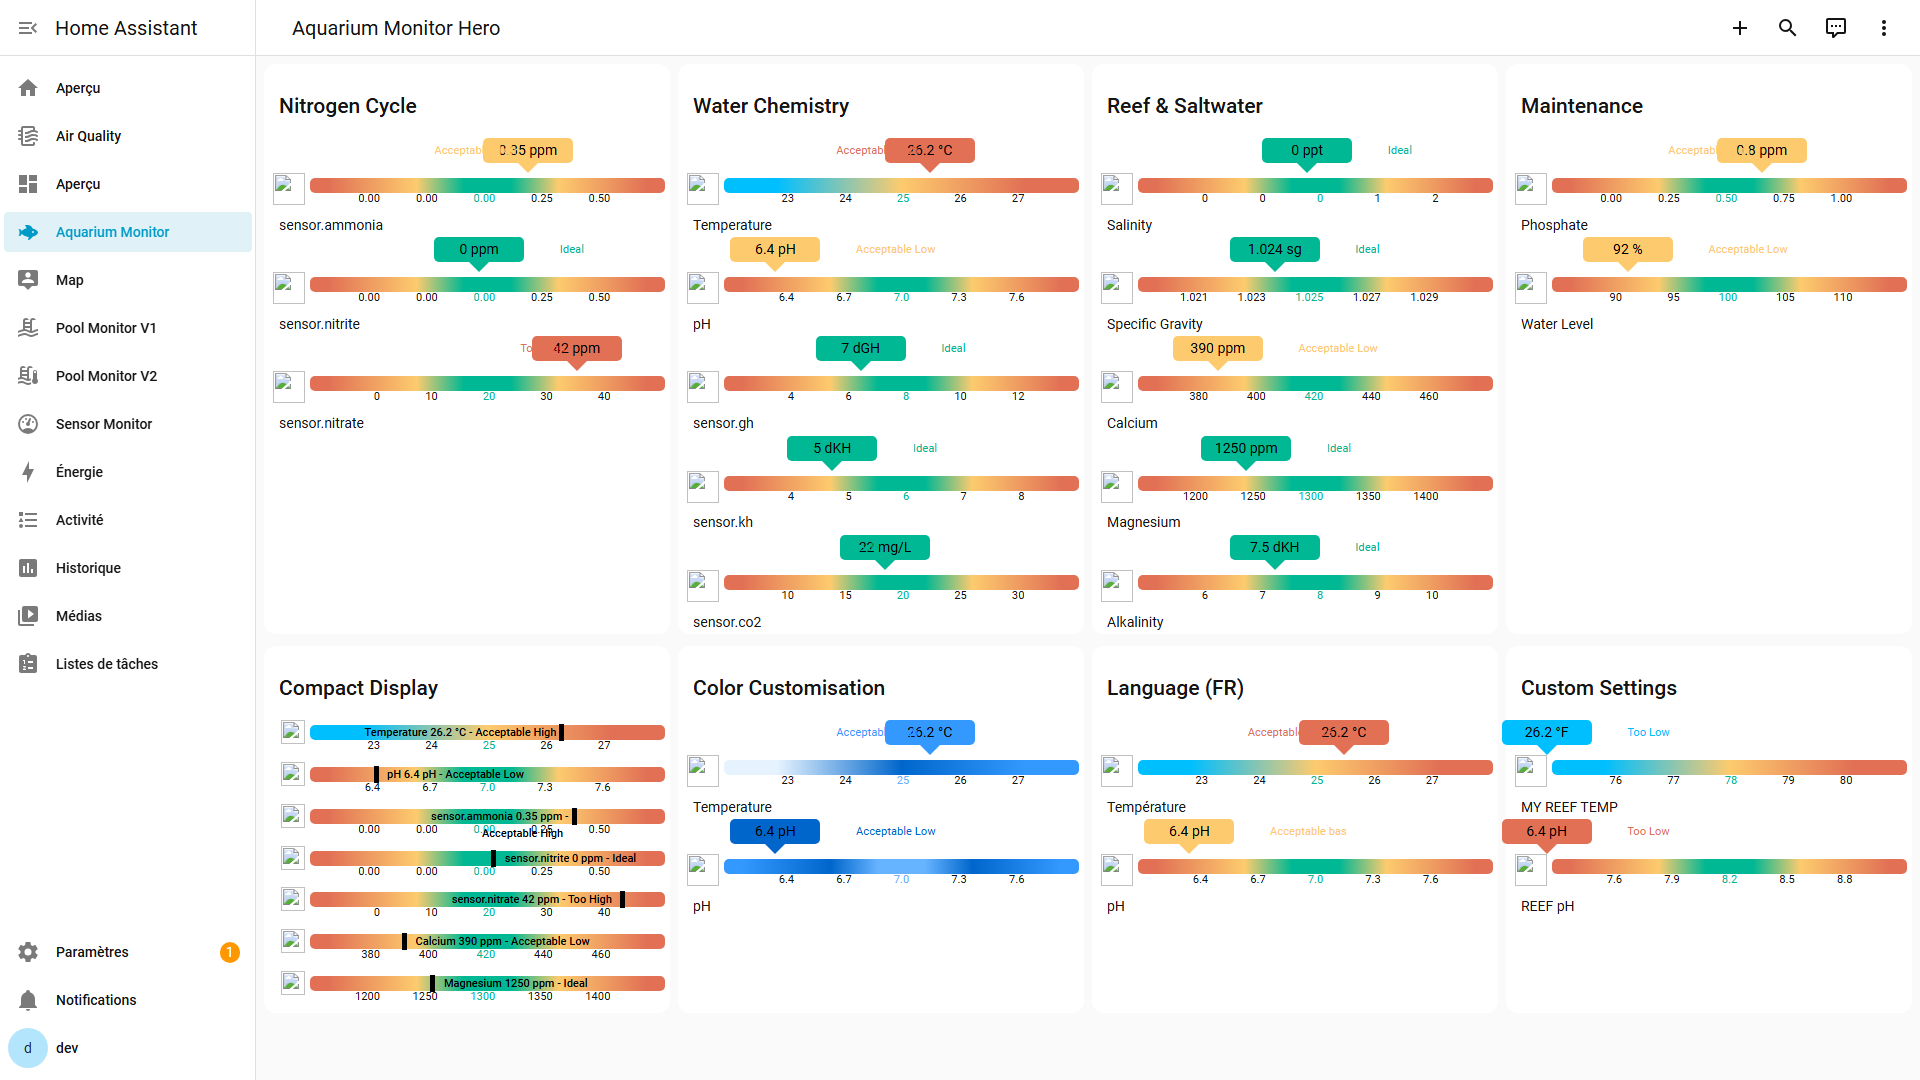
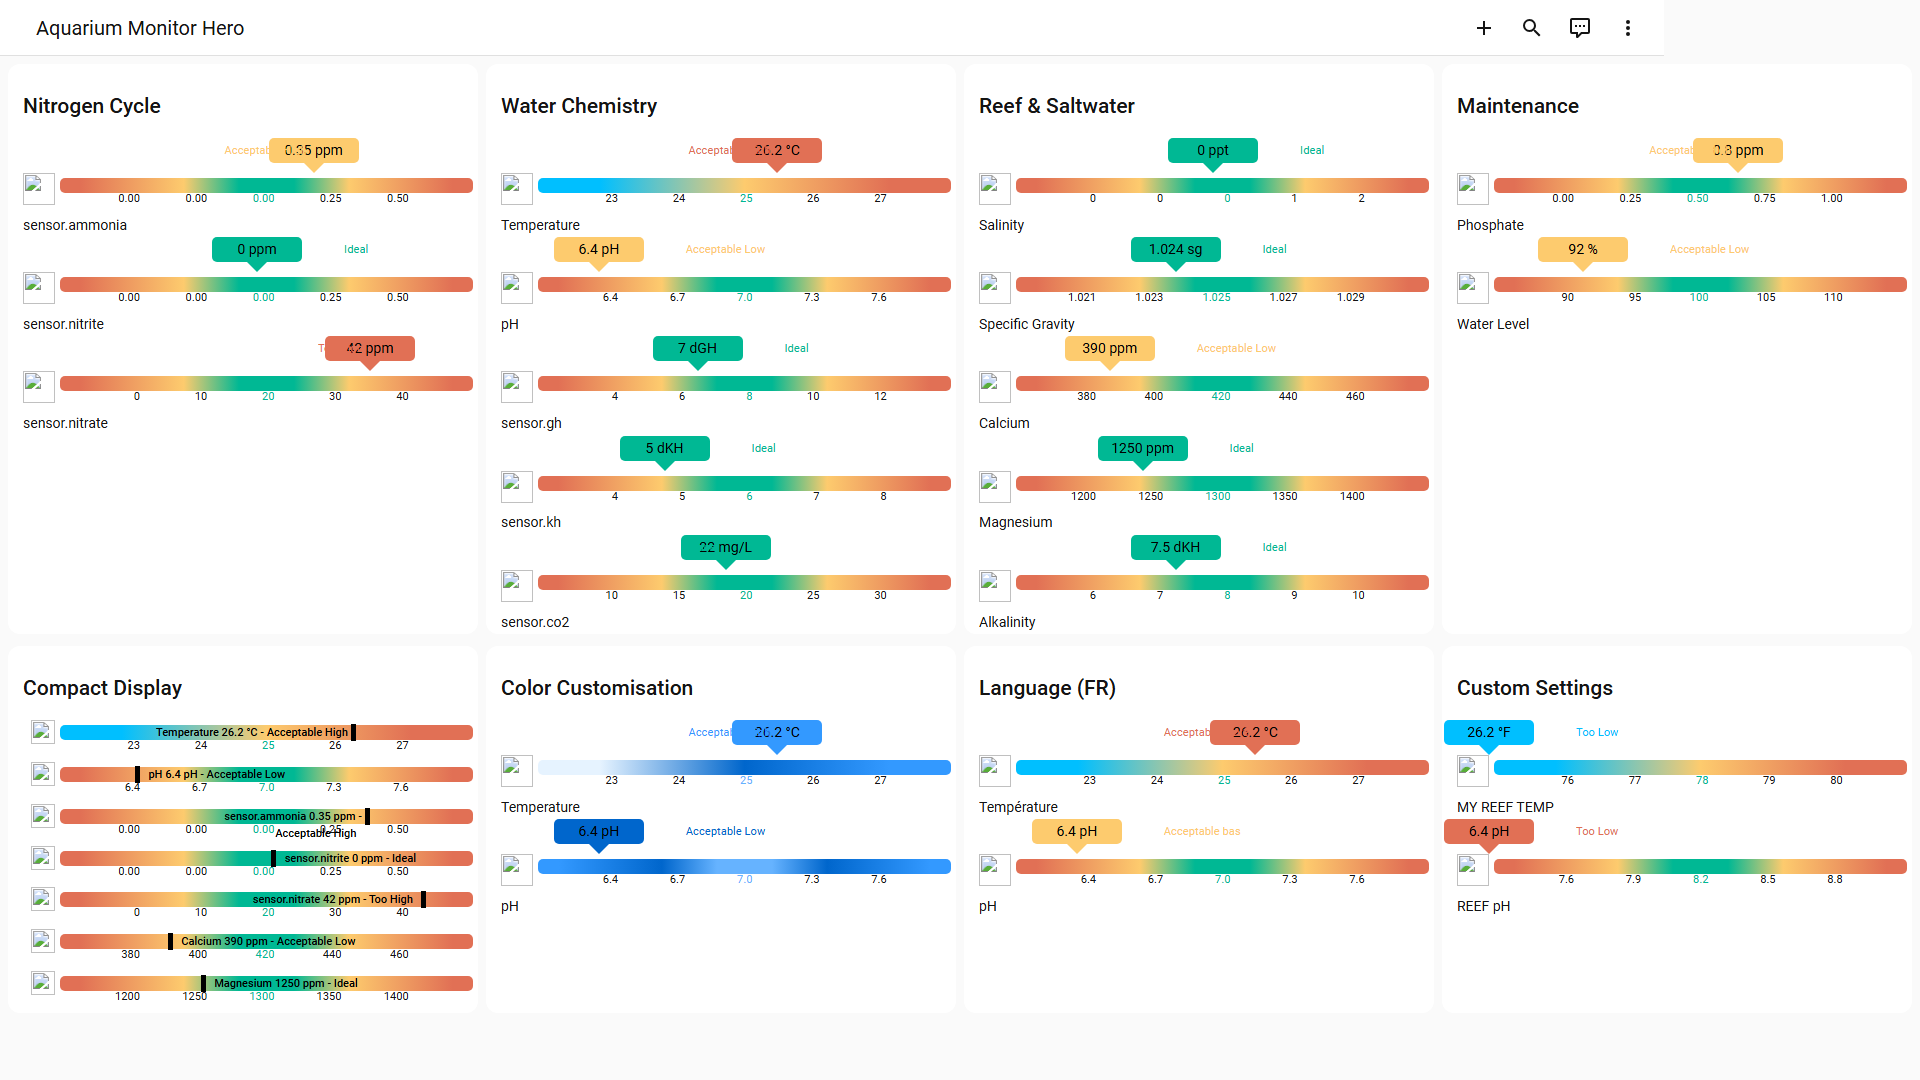
docs: add sensor keys to tables, update hero screenshot

diff --git a/README.md b/README.md
@@ -34,44 +34,44 @@ Every sensor comes with **preset ideal ranges** — just point to your entity an
 
 *The #1 killer in aquariums. Ammonia and nitrite must be zero in a cycled tank.*
 
-| Sensor | Unit | Default Setpoint |
-|--------|------|:----------------:|
-| Ammonia | ppm | 0 |
-| Nitrite | ppm | 0 |
-| Nitrate | ppm | 20 |
+| Sensor | Key | Unit | Default Setpoint |
+|--------|-----|------|:----------------:|
+| Ammonia | `ammonia` | ppm | 0 |
+| Nitrite | `nitrite` | ppm | 0 |
+| Nitrate | `nitrate` | ppm | 20 |
 
 ### Water Chemistry
 
 *Stability matters more than hitting exact numbers. Sudden shifts stress fish.*
 
-| Sensor | Unit | Default Setpoint |
-|--------|------|:----------------:|
-| Temperature | °C | 25 |
-| pH | pH | 7.0 |
-| General Hardness | dGH | 8 |
-| Carbonate Hardness | dKH | 6 |
-| CO2 | mg/L | 20 |
+| Sensor | Key | Unit | Default Setpoint |
+|--------|-----|------|:----------------:|
+| Temperature | `temperature` | °C | 25 |
+| pH | `ph` | pH | 7.0 |
+| General Hardness | `gh` | dGH | 8 |
+| Carbonate Hardness | `kh` | dKH | 6 |
+| CO2 | `co2` | mg/L | 20 |
 
 ### Reef & Saltwater
 
 *Corals consume calcium and alkalinity daily. Keeping them stable is key to growth.*
 
-| Sensor | Unit | Default Setpoint |
-|--------|------|:----------------:|
-| Salinity | ppt | 0 |
-| Specific Gravity | sg | 1.025 |
-| Calcium | ppm | 420 |
-| Magnesium | ppm | 1300 |
-| Alkalinity | dKH | 8 |
+| Sensor | Key | Unit | Default Setpoint |
+|--------|-----|------|:----------------:|
+| Salinity | `salinity` | ppt | 0 |
+| Specific Gravity | `specific_gravity` | sg | 1.025 |
+| Calcium | `calcium` | ppm | 420 |
+| Magnesium | `magnesium` | ppm | 1300 |
+| Alkalinity | `alkalinity` | dKH | 8 |
 
 ### Maintenance
 
 *Prevent phosphate-driven algae and catch evaporation before it concentrates salts.*
 
-| Sensor | Unit | Default Setpoint |
-|--------|------|:----------------:|
-| Phosphate | ppm | 0.5 |
-| Water Level | % | 100 |
+| Sensor | Key | Unit | Default Setpoint |
+|--------|-----|------|:----------------:|
+| Phosphate | `phosphate` | ppm | 0.5 |
+| Water Level | `water_level` | % | 100 |
 
 For detailed explanations of each sensor and why it matters, see [Sensor Details](docs/sensors.md).
 
